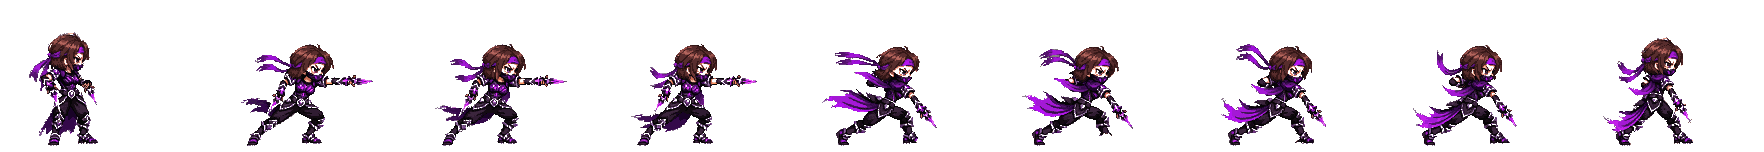
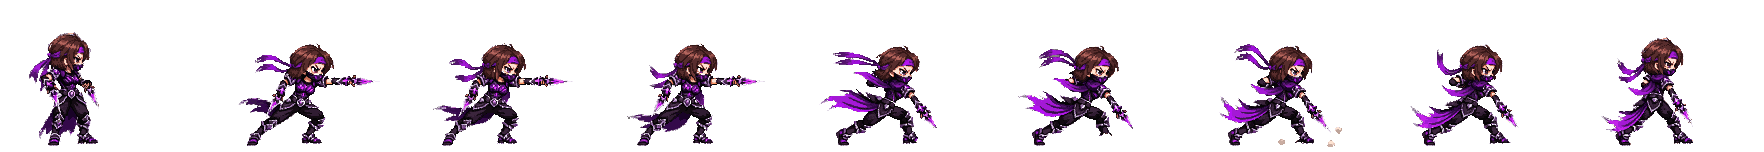
Assassin: keep her face in the attack frames, no white crescents on her stabs
Claude-Session: https://claude.ai/code/session_01TXxUxQ6wjWh66ESj3NLopA

diff --git a/action.html b/action.html
@@ -3129,7 +3129,9 @@ function stepPlayer(dt) {
         if (HERO === 'archer') { archerShot(p, P.dmg[hi], P.crit); if (nearestMob(p, 700)) gainFo(p, FO.shot); }
         else if (HERO === 'mage') { mageBolt(p, P.dmg[hi], fin); if (nearestMob(p, 480, .35)) gainFo(p, fin ? FO.hit : FO.shot); }
         else if (HERO === 'priest') { holyBolt(p, P.dmg[hi], fin); if (nearestMob(p, 460, .3)) gainFo(p, fin ? FO.hit : FO.shot); }
-        else { if (HERO === 'rogue') rogueCres(p, hi, fin);
+        else { if (HERO === 'rogue' && AS2) { const fx = DV[p.dir][0], fy = DV[p.dir][1];   // the Assassin's thrust: a short purple stab streak, not the old white crescent
+            parts(p.x + fx * 52, p.y - 30 + fy * 18, 'white', fin ? 6 : 4, {k: 'ln', dir: Math.atan2(fy, fx), spread: .35, sp: 320, life: .14}); }
+          else if (HERO === 'rogue') rogueCres(p, hi, fin);
           if (HERO === 'berserker') { if (!bzFx('vfx_bzswing', p, 30, -34, {sc: fin ? 1.15 : .95})) rogueCres(p, hi, fin, 1); if (p.rage > G.t) bzWave(p); }   // the Guardian's new moves carry their own swooshes   // owner "ดาบก็สั้น ขยายระยะฟัน": a long steel crescent shows his reach
           doHit(p, SWL ? {dmg: P.dmg[hi], kb: fin ? 150 : 50, hs: fin ? .1 : .06, sh: fin ? 6 : 3, reach: (fin ? 150 : 170) * (HERO === 'guardian' || HERO === 'berserker' ? 1.35 : 1), cone: fin ? 70 : 105, slash: fin ? 2 : 1} : {dmg: P.dmg[hi], kb: fin ? 120 : 22, hs: fin ? .09 : .05, sh: fin ? 5 : 2}); } }
       if (hi >= 0 || P.hits.includes(a.i + 1)) { p.x += DV[p.dir][0] * ATK.push; p.y += DV[p.dir][1] * ATK.push; }
@@ -3461,8 +3463,8 @@ function drawBz4(p) {
 // art/action/as2/): side run, the katar attack (also played for her skills), stills front / side / back; facing right, mirrored for
 // the left; running straight down / up shows the front / back still with a step bob. ?skin=old = the old rogue. The kit is the rogue's.
 const AS2 = HERO === 'rogue' && QS.get('skin') !== 'old' ? {left: false} : null;
-if (AS2) { fetch('art/action/as2/as2.json?v=1').then(r => r.json()).then(m => { AS2.m = m; }).catch(() => {});
-  for (const k of ['still', 'run', 'attack', 'front', 'back']) { const im = new Image(); im.src = 'art/action/as2/' + k + '.png?v=1'; AS2[k] = im; } }
+if (AS2) { fetch('art/action/as2/as2.json?v=2').then(r => r.json()).then(m => { AS2.m = m; }).catch(() => {});
+  for (const k of ['still', 'run', 'attack', 'front', 'back']) { const im = new Image(); im.src = 'art/action/as2/' + k + '.png?v=2'; AS2[k] = im; } }
 function drawAs2(p) {
   const m = AS2.m; if (!m || !AS2.still.complete) return false;
   ctx.imageSmoothingEnabled = true; ctx.imageSmoothingQuality = 'high';

diff --git a/tools/art/as2_build.py b/tools/art/as2_build.py
@@ -11,7 +11,9 @@ def clean(im, fx=False):
     a = np.asarray(im.convert('RGBA')).astype(int).copy()
     if fx:
         r, g, b = a[..., 0], a[..., 1], a[..., 2]; mn = a[..., :3].min(2); mx = a[..., :3].max(2)
-        a[(mn > 140) & (np.abs(r - b) < 45)] = 0                                  # pink / white swooshes
+        lt = (mn > 140) & (np.abs(r - b) < 45) & (a[..., 3] > 0)                   # pink / white swooshes: only BIG light patches go,
+        lb, nl = ndimage.label(lt, structure=np.ones((3, 3)))                      # small ones are her skin, eyes and blade shine
+        if nl: sz = ndimage.sum(lt, lb, range(1, nl + 1)); a[np.isin(lb, 1 + np.where(sz >= 60)[0])] = 0
         a[(mx - mn < 26) & (mx > 95) & (mx < 200) & (a[..., 3] > 0) & (np.mgrid[0:a.shape[0], 0:a.shape[1]][1] > 100)] = 0   # grey smoke ahead of her
         a[(np.mgrid[0:a.shape[0], 0:a.shape[1]][0] > 138) & (r > 150) & (g > 120) & (b < 150) & (r - b > 30)] = 0   # beige dust at the feet
     m = a[..., 3] > 0; lab, n = ndimage.label(m, structure=np.ones((3, 3)))

diff --git a/docs/action-game.md b/docs/action-game.md
@@ -1045,3 +1045,6 @@ front / back). action.html `AS2` / `drawAs2`: the rogue (`?hero=rogue`, default 
 side run (mirrored left), front / back still with a bob when running straight down / up, the attack row for normal attacks, skills
 and the knife throw, a bright flash when hurt, fade on death. Drawn at 2/3 world px per art px (as tall as the old rogue). Her kit is
 still the rogue's. Missing moves: idle, front / back runs, hurt, death, a right-hand thrust.
+Fix (owner 2026-11-12 "ทำไมแอสตัวแปลกๆ"): the swoosh cleaner in as2_build.py also cut her light skin round the eyes (her face
+showed see-through holes in the attack frames); it now removes only big light patches (≥60 px). Her normal hits drew the old rogue's
+white ice crescents in front of her; she now gets a few short white stab lines at the blade instead.
